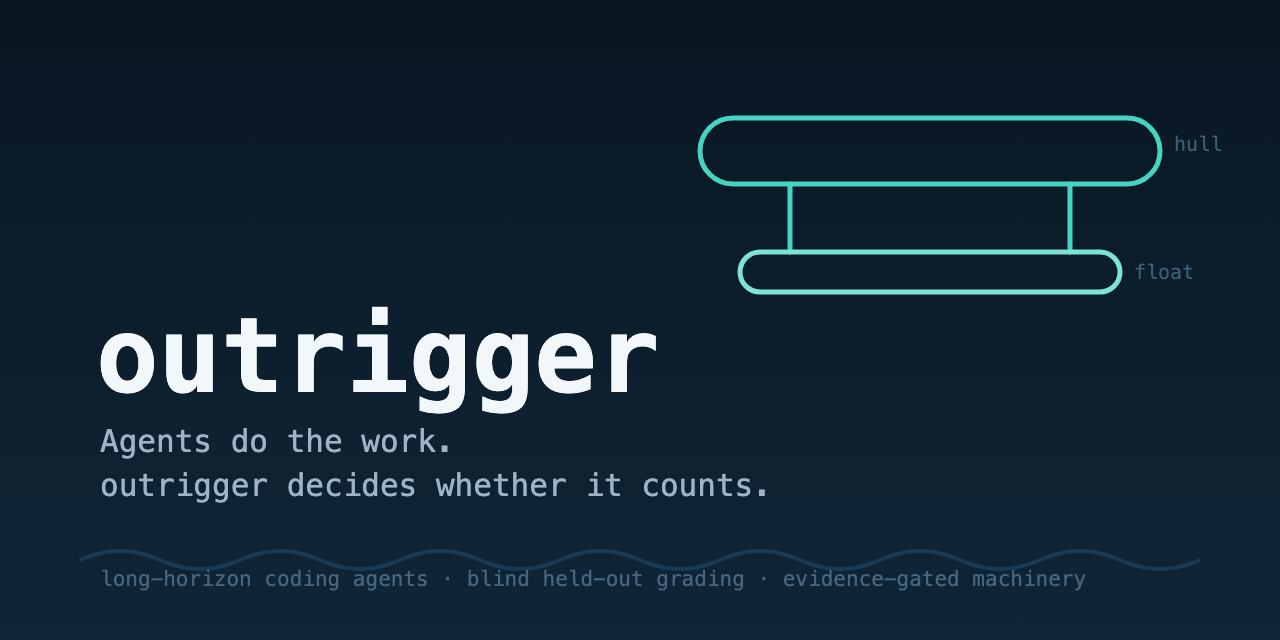
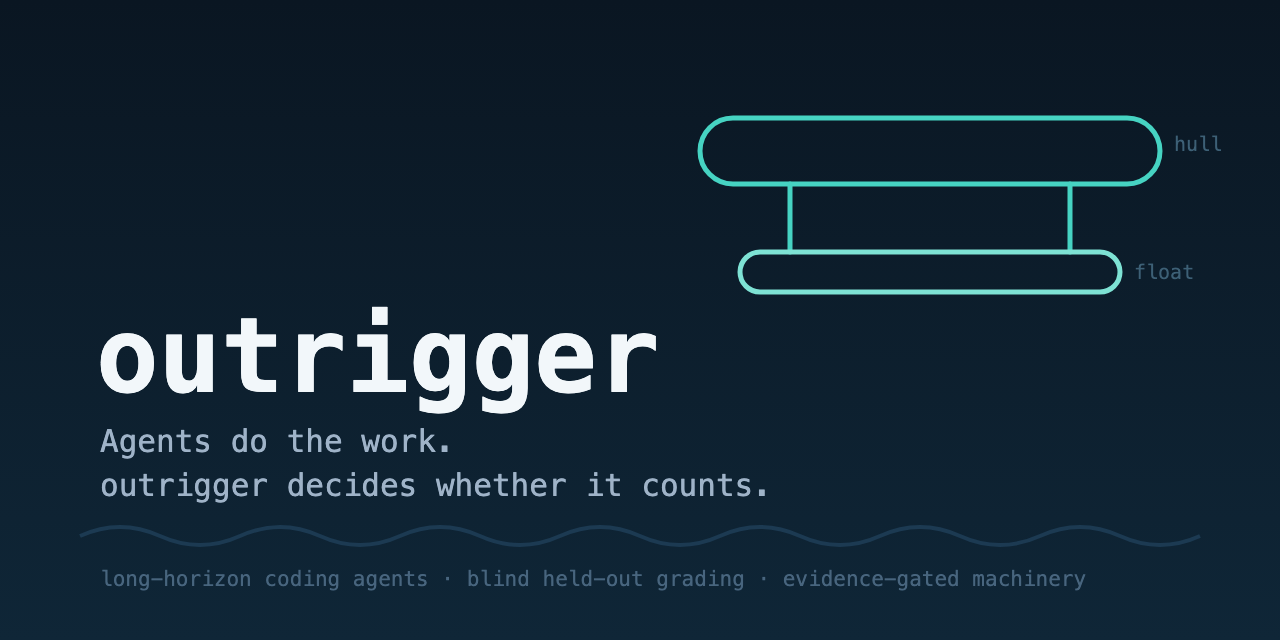
docs(readme): v3 — SVG diagrams replace ASCII art, metaphor + lever tweaks, card spacing
Early sea-adventurers instead of Polynesian navigators. Lever 4 retitled
Token efficiency. Three ASCII diagrams replaced with brand-matched SVGs
(docs/assets/readme/): hull-and-float, execution-loop (drops the
attempts-count line; counts-only feedback now reads 'the implementer only
learns test-failure counts'), evidence-loop. Self-backgrounded dark cards
so they read on both GitHub themes; QA-rendered via headless Chrome.
Social card: wave moved up for space above the footer keywords.

Changed region(s): [[0.0625, 0.8125, 0.9375, 0.9062]]

diff --git a/README.md b/README.md
@@ -3,7 +3,7 @@
 **Long-horizon coding agents, stabilized.** Agents do the work. outrigger decides whether
 it counts.
 
-Polynesian navigators crossed thousands of miles of open ocean in small canoes. They did
+Early sea-adventurers crossed thousands of miles of open water in small canoes. They did
 not build bigger hulls. They lashed a stabilizing float alongside, and the pairing could
 survive seas that would flip either piece alone. The hull does the work; the outrigger
 keeps it upright, far from shore, where nobody can reach you.
@@ -14,17 +14,7 @@ walls, the blind examiner, and the evidence discipline that together make hours 
 unattended work land as verified, to-spec, merge-worthy commits instead of confident
 wreckage.
 
-```
-      ┌──────────────────────────────────┐
-      │   your coding agent    ~ hull ~  │   does the work
-      └───────┬──────────┬──────────┬────┘   (any vendor; replaceable)
-              │          │          │        ← lashings: schema'd file
-      ┌───────┴──────────┴──────────┴────┐     contracts + exit codes,
-      │   outrigger            ~ float ~ │     never shared memory
-      │   spec · walls · blind grading   │
-      │   · evidence ledger              │   keeps it upright when
-      └──────────────────────────────────┘   no one is watching
-```
+![The hull and the float](docs/assets/readme/hull-and-float.svg)
 
 ## The problem
 
@@ -60,9 +50,9 @@ pointing at the same five levers:
    politeness.
 3. **Externally granted completion.** The agent never declares itself done. An independent
    mechanism does, against the whole build.
-4. **Surviving the economics.** Subscription windows close mid-run, and context reuse is
-   roughly 9x cheaper than fresh tokens (we measured it). A long-horizon harness must
-   halt, park, and resume. Never overspend, never lose the run.
+4. **Token efficiency.** Subscription windows close mid-run, and context reuse is roughly
+   9x cheaper than fresh tokens (we measured it). A long-horizon harness must halt, park,
+   and resume. Never overspend, never lose the run.
 5. **Subtracting machinery.** Every mechanism measured. Anything that does not pay for
    itself gets dialed down or deleted, on evidence.
 
@@ -70,25 +60,7 @@ outrigger is those five levers, built as composable tools.
 
 ## How it works
 
-```
- ratified spec ─────► blind TEST-AUTHOR ────► sealed held-out suite ✦
-      │                (fresh worker,          (proven to fail on base,
-      │                 sees spec only)         tamper-evident manifest)
-      │                                              ║
-      │               ═══ OS-enforced wall ══════════╣
-      │               implementer CANNOT read ═══════╣
-      ▼                                              ║
-  IMPLEMENTER ──► commits in a walled worktree       ║
-  (own tests,     │                                  ║
-   own judgment)  ▼                                  ▼
-              MERGE-GATE: judges the MERGED tree; task checks + sealed suite
-                  │  feedback is counts-only; at most 2 attempts, then a human
-                  ▼
-              fast-forward landing, pinned to the judged SHA
-                  ▼
-              WHOLE-BUILD CLOSURE: every check + every sealed suite,
-              re-run against final main. Completion GRANTED and stamped.
-```
+![The execution loop](docs/assets/readme/execution-loop.svg)
 
 **The interrogation.** Work enters through a pedantic, one-question-at-a-time spec
 interview that converts a goal into a machine-checkable plan: decisions recorded with
@@ -122,18 +94,7 @@ and deletion criteria: a check that catches no errors gets removed, on the recor
 dialable per plan (full, gate-only, or bare), and every reduction is stamped in the ledger,
 so lowering the guard is always a visible, recorded choice.
 
-```
- research corpus ──► graded distillation ──► design decision ──► artifact
- (papers, primary    (warrant × incentive     Decided /           (standalone
-  sources, our own     × decay)               Provisional / TBD    tool)
-  pilot records)                                                     │
-        ┌────────────────────────────────────────────────────────────┘
-        ▼
-  measurement · null arms · pre-registered predictions ──► append-only ledger
-        │
-        ▼
-  dial up · dial down · DELETE. No ritual survives without evidence.
-```
+![The evidence loop](docs/assets/readme/evidence-loop.svg)
 
 ## Receipts
 